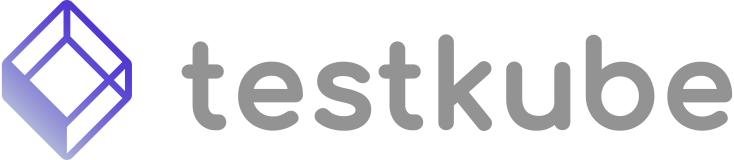
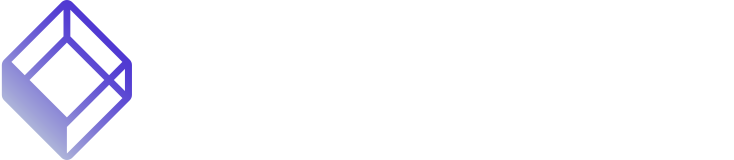
feat: updated README

Changed region(s): [[0.2398, 0.2188, 1.0, 0.8438]]

diff --git a/README.md b/README.md
@@ -1,12 +1,24 @@
-![Testkube Logo](https://raw.githubusercontent.com/kubeshop/testkube/main/assets/testkube-color-gray.png)
+<p align="center">
+  <img src="https://raw.githubusercontent.com/kubeshop/testkube/main/assets/testkube-color-white.png#gh-light-mode-only" alt="Testkube Logo Light"/>
+  <img src="https://raw.githubusercontent.com/kubeshop/testkube/main/assets/testkube-color-dark.png#gh-dark-mode-only" alt="Testkube Logo Dark" />
+</p>
 
-![Release](https://img.shields.io/github/v/release/kubeshop/testkube) [![Releases](https://img.shields.io/github/downloads/kubeshop/testkube/total.svg)](https://github.com/kubeshop/testkube/tags?label=Downloads) ![Go version](https://img.shields.io/github/go-mod/go-version/kubeshop/testkube)
 
-![Docker builds](https://img.shields.io/docker/automated/kubeshop/testkube-api-server) ![Code build](https://img.shields.io/github/workflow/status/kubeshop/testkube/Code%20build%20and%20checks) ![Release date](https://img.shields.io/github/release-date/kubeshop/testkube)
+<p align="center">
+  <a target="_new" href="https://www.youtube.com/watch?v=GVvgLuxdrXE&t=47s">
+    <img src="https://raw.githubusercontent.com/kubeshop/testkube/main/assets/intro-to-testkube.jpg">
+  </a>
+</p>
 
+ <p align="center">
+ [Website](https://testkube.io) | [Documentation](https://kubeshop.github.io/testkube) | [Discord](https://discord.gg/hfq44wtR6Q) | [Blog](https://kubeshop.io/blog)
+</p>
+
+
+<p align="center">
+![Release](https://img.shields.io/github/v/release/kubeshop/testkube) [![Releases](https://img.shields.io/github/downloads/kubeshop/testkube/total.svg)](https://github.com/kubeshop/testkube/tags?label=Downloads) ![Go version](https://img.shields.io/github/go-mod/go-version/kubeshop/testkube) ![Docker builds](https://img.shields.io/docker/automated/kubeshop/testkube-api-server) ![Code build](https://img.shields.io/github/workflow/status/kubeshop/testkube/Code%20build%20and%20checks) ![Release date](https://img.shields.io/github/release-date/kubeshop/testkube)
 ![Twitter](https://img.shields.io/twitter/follow/thekubeshop?style=social) ![Discord](https://img.shields.io/discord/884464549347074049)
- #### [Documentation](https://kubeshop.github.io/testkube) | [Discord](https://discord.gg/hfq44wtR6Q) 
-
+</p>
 
 <!-- try to enable it after snyk resolves https://github.com/snyk/snyk/issues/347
 
